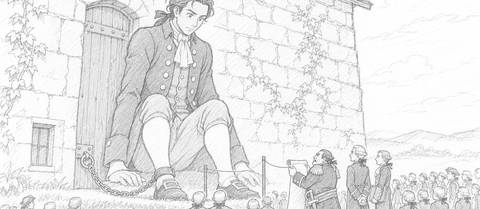
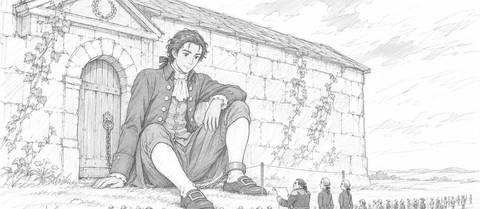
第2話 通読の直し：線画を描き直した6コマ（3-1・7-4・11-1・11-2・16-1・16-2、ink-ep02-v2）
Claude-Session: https://claude.ai/code/session_01XJNGYHfC5R2ajPckUiqCxE

diff --git a/part1/ink/gulliver-ep02-ink.ts b/part1/ink/gulliver-ep02-ink.ts
@@ -1,7 +1,7 @@
 /**
  * ガリヴァー旅行記 第2話「綱渡りの宮廷」の線画。工程定義 fiction-manga@1.3.0 の「線画」（ページごと）の成果物。
  *
- * 第1話の線画（gulliver-ep01-ink.ts）と同じ作り：ラフ（gm1-ep02-rough@rough-ep02-v1）と同じページとコマの Design
+ * 第1話の線画（gulliver-ep01-ink.ts）と同じ作り：ラフ（gm1-ep02-rough@rough-ep02-v2）と同じページとコマの Design
  * 原稿に、隠して残す LY-01・LY-02 と、Codex に3色で描かせて色で分けた LY-04 背景・LY-07 人物・LY-08 効果。
  * 線・細部・人物の比率・コマどうしのつながりの確認（ink.approved）と直しは作者（Ryo）。これは AI の提案。
  */
@@ -12,14 +12,14 @@ import type { RoughInput } from './gulliver-ep01-rough';
 import { buildEpisodeInk, pageTable, type InkInput } from './gulliver-ep01-ink';
 
 /** ラフの固定した版（線画のもと）。 */
-export const ROUGH_VERSION_EP02 = 'gm1-ep02-rough@rough-ep02-v1';
+export const ROUGH_VERSION_EP02 = 'gm1-ep02-rough@rough-ep02-v2';
 
 export function buildEpisode2Ink(stage: StageInput, rough: RoughInput, ink: InkInput) {
   return buildEpisodeInk(stage, rough, ink, { episode: 2, name: EP02_NAME, roughVersion: ROUGH_VERSION_EP02 });
 }
 
 const stamp = '2026-11-15T00:00:00.000Z';
-const VERSION = 'ink-ep02-v1';
+const VERSION = 'ink-ep02-v2';
 async function native(kind: string, id: string, name: string, content: unknown) {
   const artifact: Artifact<unknown> = {
     schemaVersion: 1,
